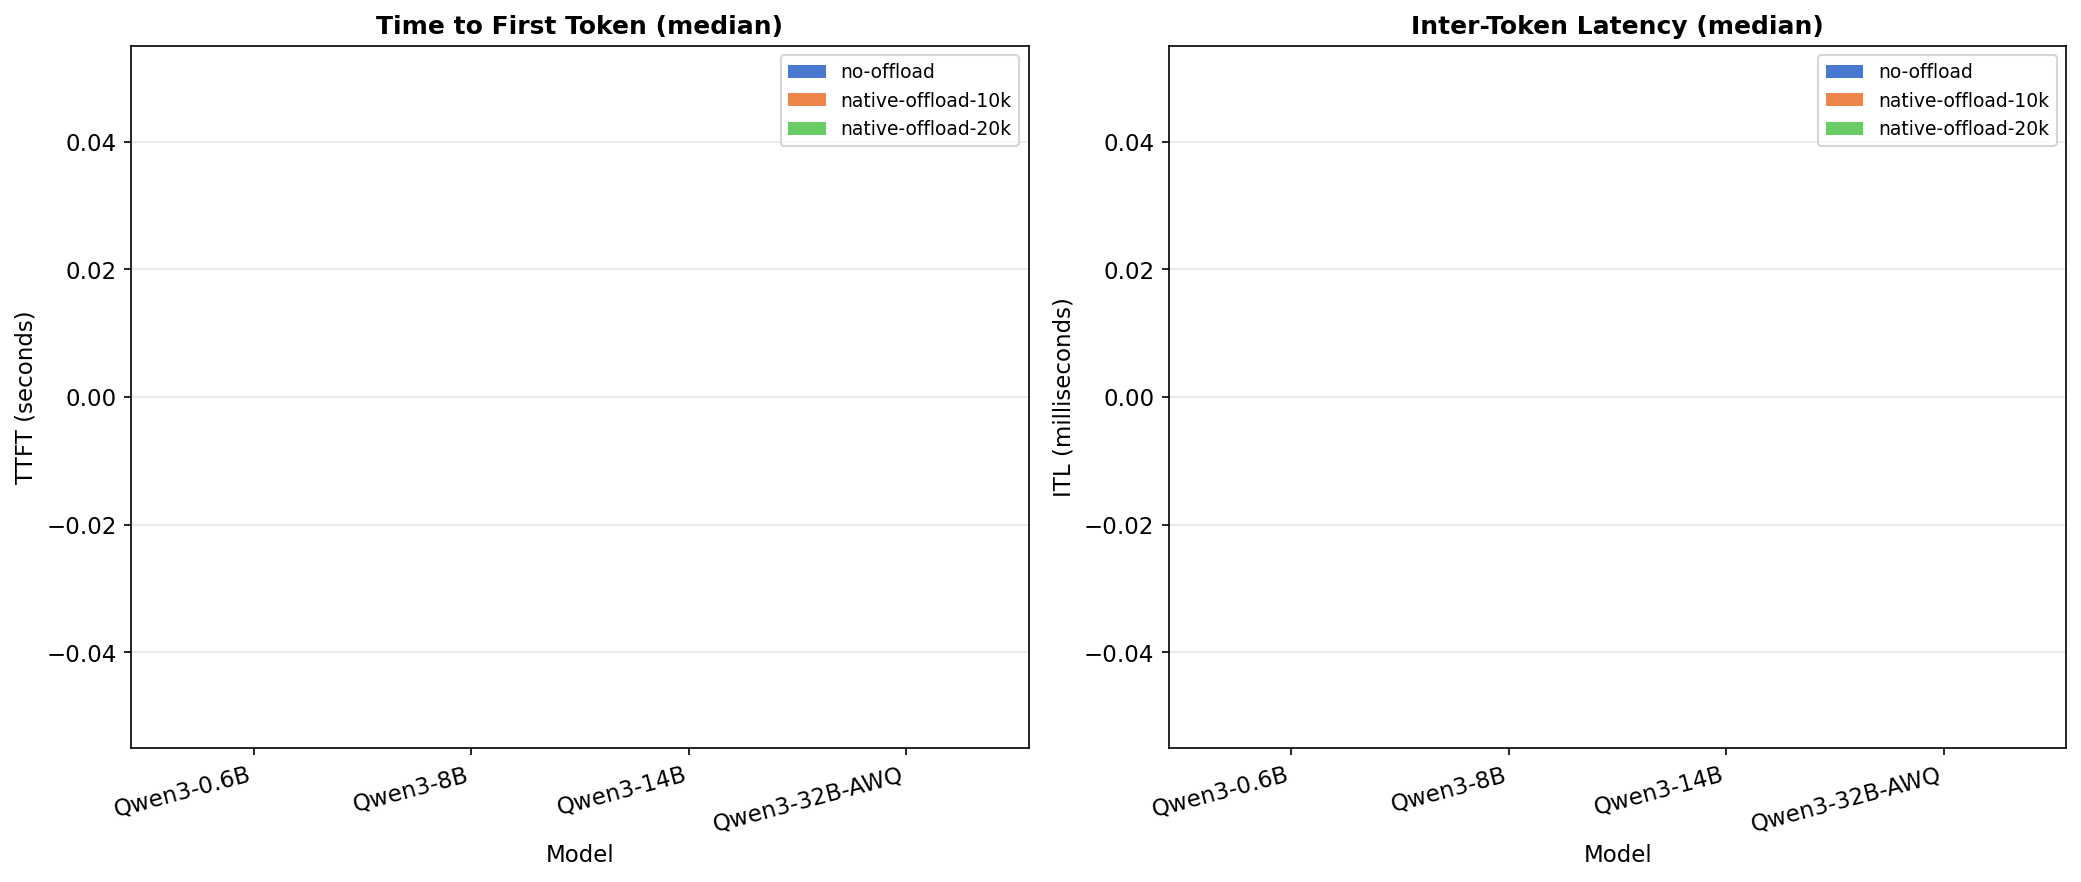
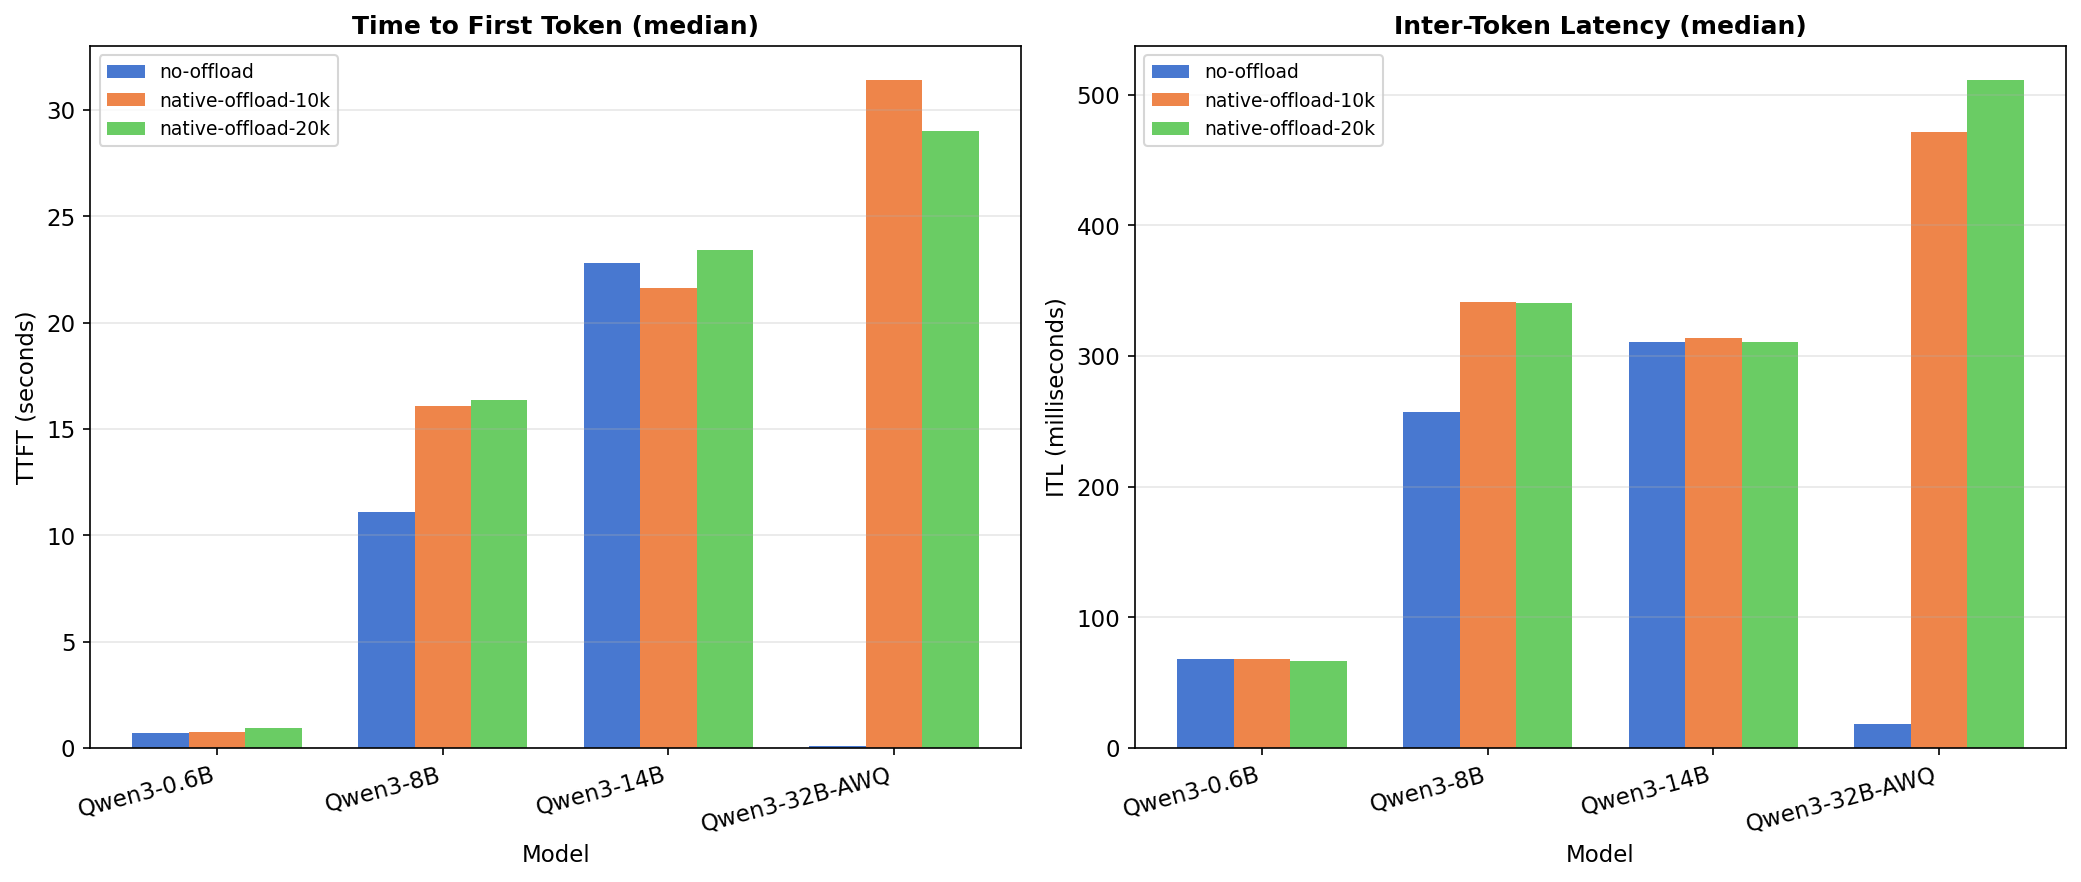
Fix bug in the visualize script generating ttft/itl/tpot graph

diff --git a/llm-d-kvcache-offload-eval/scripts/visualize-v0.5.0.py b/llm-d-kvcache-offload-eval/scripts/visualize-v0.5.0.py
@@ -49,10 +49,10 @@ def extract_all_metrics(results_dir):
             duration = benchmark['duration']
             throughput = total_output_tokens / duration
 
-            # Latency metrics
-            ttft_median = metrics.get('time_to_first_token', {}).get('successful', {}).get('median', 0) / 1000  # ms to s
-            itl_median = metrics.get('inter_token_latency', {}).get('successful', {}).get('median', 0)
-            tpot_median = metrics.get('time_per_output_token', {}).get('successful', {}).get('median', 0)
+            # Latency metrics (all in milliseconds from GuideLLM)
+            ttft_median = metrics.get('time_to_first_token_ms', {}).get('successful', {}).get('median', 0) / 1000  # ms to s
+            itl_median = metrics.get('inter_token_latency_ms', {}).get('successful', {}).get('median', 0)
+            tpot_median = metrics.get('time_per_output_token_ms', {}).get('successful', {}).get('median', 0)
 
             # Request counts
             request_totals = metrics['request_totals']
